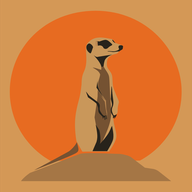
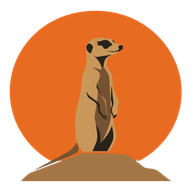
Chief of Staff: meerkat tile without the tan square
Eric asked for the CoS tile with only the sun, meerkat and mound, the tan square
gone so the tile's cream shows around them. Replaced apps/chief-of-staff/icon-any-192.png
in place (protected, device-referenced URL; no setup link needed). Old sha 96451eec
-> new 542cdd61. New master brand/chief-of-staff-meerkat-nosquare-1024.png, cut from
the square master (kept) by edge-connected flood fill of #D49856 plus rim un-mixing.

Verified: rendered in the real launcher at 412px with the device tiles seeded; zero
console errors. check-protected-assets OK (25/25).

Agent-Tool: Claude
Agent-Session: 7c650136-7921-4234-ad2b-adcd660605da
Agent-Task: cos-meerkat-icon-no-square

diff --git a/brand/README.md b/brand/README.md
@@ -107,8 +107,10 @@ exploration sets.
 
 # Chief of Staff — meerkat sentinel
 
-`chief-of-staff-meerkat-master-1024.png` is the master for the Chief of Staff
+`chief-of-staff-meerkat-nosquare-1024.png` is the master for the Chief of Staff
 launcher tile. The deployed file is `apps/chief-of-staff/icon-any-192.png`.
+`chief-of-staff-meerkat-master-1024.png` is the original square version it was cut
+from (see "No tan square" below).
 
 That deployed path is device-referenced — it is listed in `protected-assets.json`
 and is the exact URL in the `cos-private-board` row of `cos-phone-sync/device-tiles.json`
@@ -152,6 +154,18 @@ transparent side margins), then flattening onto the panel's own sampled colour
 `#D49856` so the tile is fully opaque with no alpha fringe at any size. The crop is
 1134x1184, so squaring it stretches the artwork about 4% horizontally — invisible
 at tile size and preferable to transparent side strips.
+
+## No tan square (2026-09-22)
+
+Eric asked for the tile without the tan square: sun, meerkat and mound only, with
+the tile's own cream showing around them, like the other borderless tiles. The
+`nosquare` master is the square master with the flat `#D49856` ground made
+transparent — flood-filled from the edges only, so the similar tan of the meerkat's
+body (enclosed by the sun) is untouched — and the anti-aliased rim re-alphaed by
+un-mixing each rim pixel against the ground toward the nearest palette colour
+(sun orange, mound brown, shadow, outline). The 192px tile is a straight Lanczos
+resize of it. The deployed icon now carries alpha, which reverses the earlier
+"fully opaque" choice on purpose.
 
 Known mismatch, deliberately not changed: the tile's stored `borderColor` /
 `glowColor` in `device-tiles.json` are still red (`#cc2222`), chosen for the old
